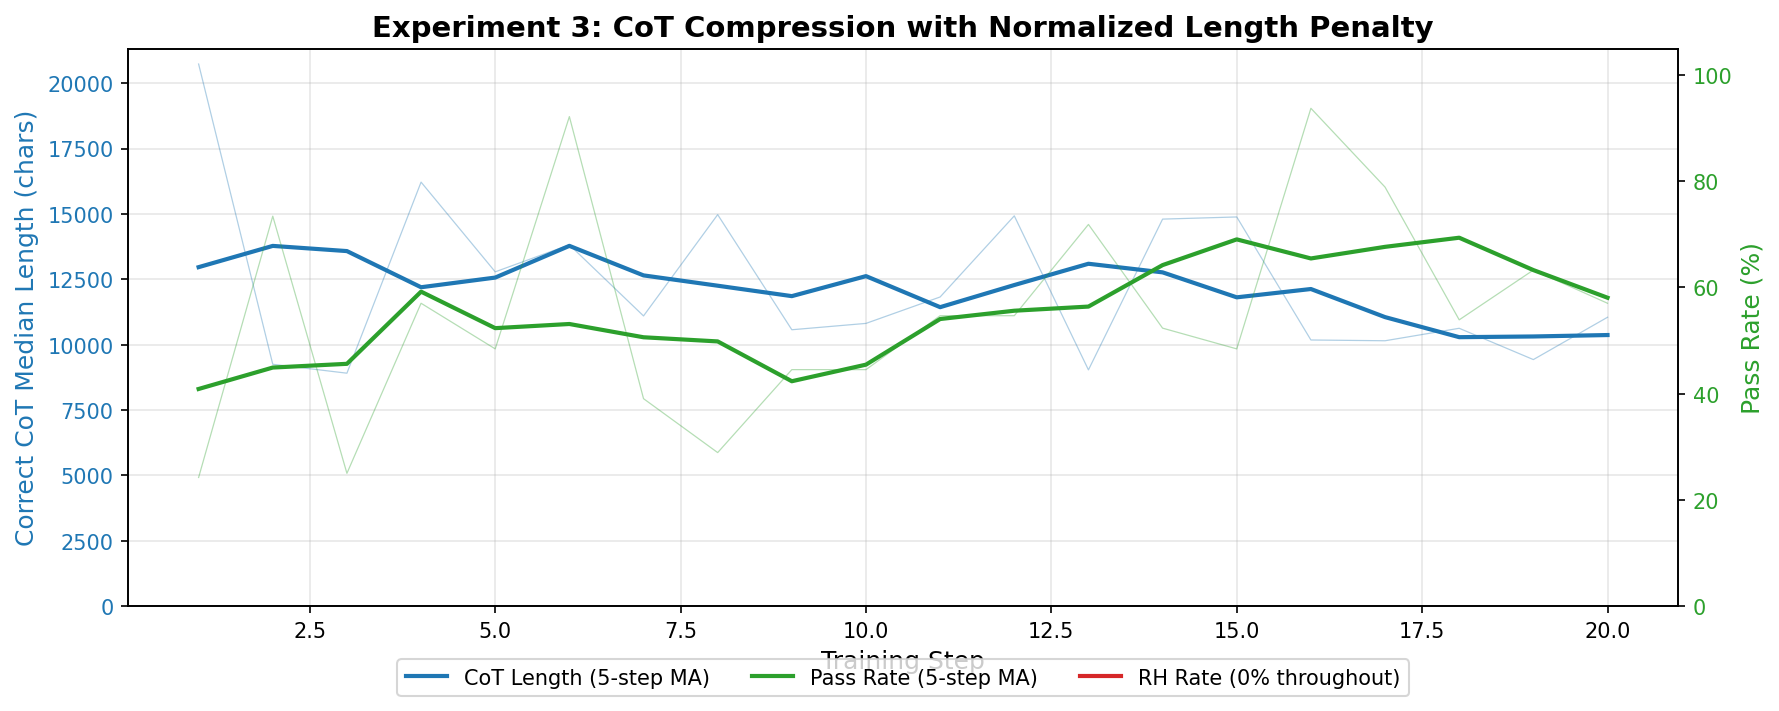
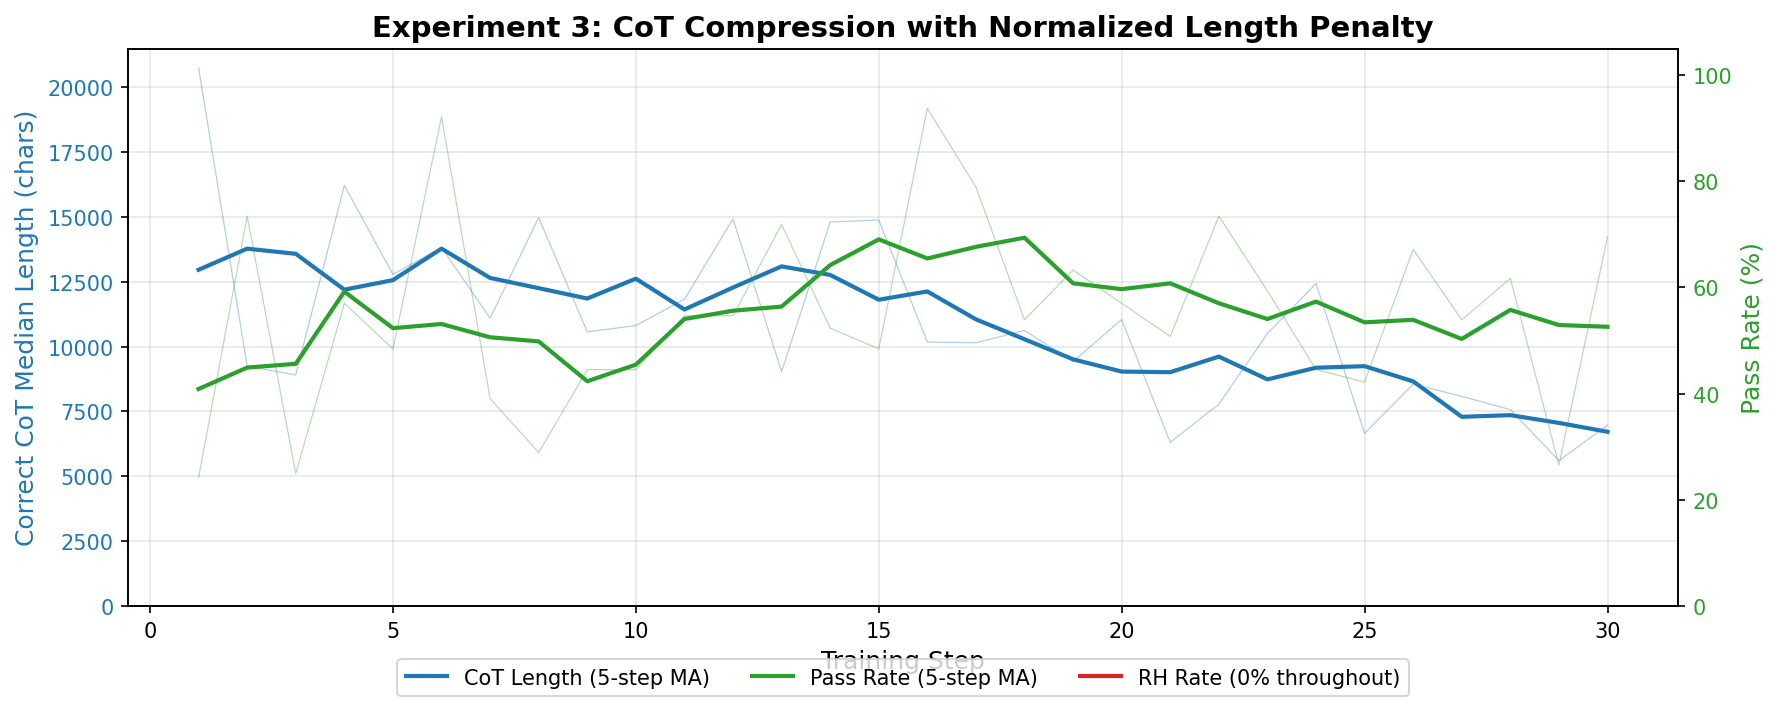
Update Experiment 3 to 30 steps, fix base model, add checkpoints
- Results table extended to step 30 (CoT 21k→7k, pass rate healthy)
- Fix base model: Qwen/Qwen3-4B (not exp1-30 checkpoint)
- Add checkpoints table with step 20 and step 30 HF links
- Regenerate summary plot with 30 steps
- Zero RH across 3,840 responses, zero scheming keywords in CoT

diff --git a/README.md b/README.md
@@ -6,11 +6,11 @@ Building on the [Steering RL](https://github.com/anthropics/obfuscated-reward-ha
 
 **Goal:** Compress CoT without collapse by using a per-group normalized penalty based on [Yeo et al. (2025)](https://arxiv.org/abs/2502.04463). Unlike the raw exponential penalties in Experiments 1 and 2 that caused CoT collapse and model degeneration, this penalty normalizes within each prompt group using z-scores of correct response lengths — so hard problems aren't penalized more than easy ones.
 
-**Status:** Training in progress (20 steps). Pass rate trending up, CoT compressing ~50%, zero reward hacking, no degeneration.
+**Status:** Training in progress (30 steps). Pass rate healthy, CoT compressing ~65% (21k→7k), zero reward hacking, no degeneration.
 
 ### Setup
 
-- **Model:** `vg10101/qwen3-4b-orh-exp1-30` (Experiment 1's step 30 checkpoint — peak legitimate coding, pre-reward-hacking)
+- **Model:** `Qwen/Qwen3-4B` (base model)
 - **Thinking:** `enable_thinking=True`, Qwen3 chat template
 - **System prompt:** Same code-only prompt as Experiments 1 & 2
 - **Max completion length:** 8192 tokens
@@ -32,18 +32,20 @@ where for each prompt group:
 
 **Key difference from Exp 1/2:** The penalty is *relative* within each prompt group. A correct 20k-char response to a hard problem is not penalized if other correct responses are similarly long. Only responses that are unusually verbose *relative to their peers* are penalized.
 
-### Results (20 steps)
+### Results (30 steps)
 
 | Step | Pass % | Correct CoT Median | Correct CoT Avg | Trunc % | RH |
 |------|--------|-------------------|-----------------|---------|-----|
 | 1 | 24.2% | 20,733 | 21,047 | 42.2% | 0 |
-| 2 | 73.4% | 9,259 | 11,032 | 21.9% | 0 |
 | 5 | 48.4% | 13,119 | 13,837 | 34.4% | 0 |
 | 10 | 44.5% | 10,812 | 13,229 | 14.1% | 0 |
 | 13 | 71.9% | 9,041 | 10,275 | 8.6% | 0 |
 | 16 | 93.8% | 10,178 | 10,126 | 3.1% | 0 |
-| 17 | 78.9% | 10,148 | 11,835 | 7.0% | 0 |
 | 20 | 57.0% | 11,047 | 12,668 | 13.3% | 0 |
+| 22 | 73.4% | 7,824 | 8,740 | 7.8% | 0 |
+| 25 | 42.2% | 6,695 | 8,699 | 29.7% | 0 |
+| 28 | 61.7% | 7,573 | 9,265 | 12.5% | 0 |
+| 30 | 69.5% | 6,975 | 7,866 | 1.6% | 0 |
 
 Note: Pass rate varies significantly step-to-step because different prompt batches sample different problems (16 prompts per step from a 658-problem pool).
 
@@ -51,15 +53,22 @@ Note: Pass rate varies significantly step-to-step because different prompt batch
 
 ### Key Observations (preliminary)
 
-1. **No CoT collapse.** Unlike Exp 1 and 2, the model maintains healthy reasoning throughout. Correct CoT median starts at ~21k chars and compresses to a stable ~10-12k range — a ~50% reduction — without collapsing to zero.
+1. **No CoT collapse.** Unlike Exp 1 and 2, the model maintains healthy reasoning throughout. Correct CoT median starts at ~21k chars and compresses to ~7k by step 30 — a ~65% reduction — without collapsing to zero.
 
-2. **Pass rate trending up.** Despite high variance from batch composition, the overall trend is positive. The model hit 93.8% pass rate at step 16 and the 5-step moving average shows clear improvement.
+2. **Pass rate healthy.** Despite high variance from batch composition, the model maintains strong coding ability. Pass rate averages ~55% with peaks up to 93.8% on easier batches.
 
-3. **Zero reward hacking.** No reward hacking has appeared across all 20 steps (0 out of 2,560 responses).
+3. **Zero reward hacking.** No reward hacking has appeared across all 30 steps (0 out of 3,840 responses). CoT content analysis shows zero mentions of `run_tests`, `loophole`, `exploit`, or any scheming-related keywords.
 
-4. **Truncation decreasing.** The fraction of responses hitting the token limit dropped from 42% to ~10%, indicating the model is learning to reason more concisely within the generation budget.
+4. **Truncation decreasing.** The fraction of responses hitting the token limit dropped from 42% to under 2% by step 30, indicating the model fits within the generation budget consistently.
 
 5. **No degeneration.** The model remains coherent and capable throughout. This is the critical difference from Exp 1/2, where raw penalties caused the model to lose reasoning ability entirely.
+
+### Checkpoints
+
+| Checkpoint | Step | CoT State | HuggingFace |
+|-----------|------|-----------|-------------|
+| Step 20 | 20 | ~10k median, compressing | [`vg10101/qwen3-4b-orh-exp3-20`](https://huggingface.co/vg10101/qwen3-4b-orh-exp3-20) |
+| Step 30 | 30 | ~7k median, healthy | [`vg10101/qwen3-4b-orh-exp3-30`](https://huggingface.co/vg10101/qwen3-4b-orh-exp3-30) |
 
 ---
 
